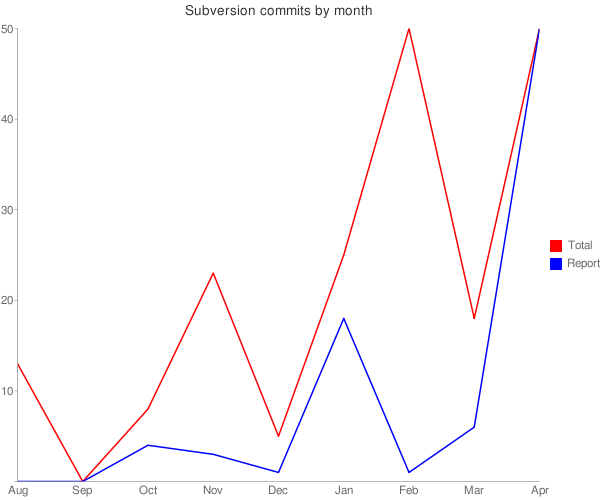
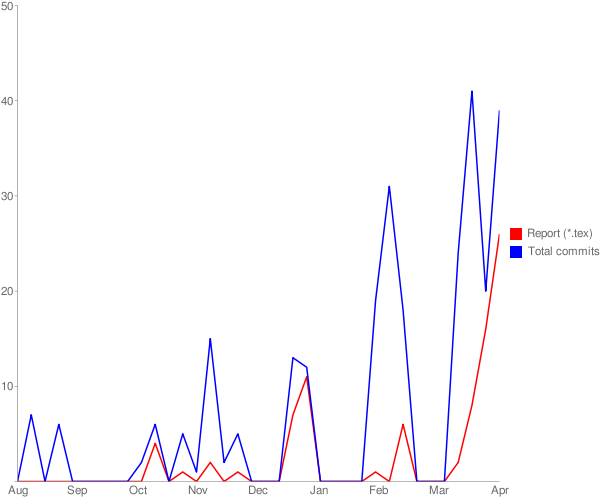
Gantt charts - ugh
git-svn-id: https://ssl.davidsansome.com/svn/3yp@270 f8f7d5d3-7237-0410-84b3-ada5caf6daf8

diff --git a/docs/report/appendix-time.tex b/docs/report/appendix-time.tex
@@ -1,0 +1,71 @@
+For any project to be successful it has to be well managed.
+Deadlines must be set (and met), and the available time has to be rationed out to allow all parts of the project to be completed.
+
+More research-based projects such as this one are slightly different, in that there is no formal set of requirements created before-hand.
+Development on the code-base is very much an arbitrary process, with new ideas evolving and new avenues being explored at all times.
+It is difficult to tell at the outset which ideas will be successful, and if any new directions will emerge during the course of development.
+
+Nevertheless, some deadlines were introduced in order to guide the project towards its end goal.
+These deadlines were as follows:
+
+\begin{enumerate}
+	\item \textbf{Project brief submission} (Friday 19$^\text{th}$ October)
+	\begin{itemize}
+		\item Familiarization with basic computer vision algorithms
+		\item Completion of test bed for shader implementations
+	\end{itemize}
+	
+	\item \textbf{Interim report submission} (Friday 11$^\text{th}$ January)
+	\begin{itemize}
+		\item Completion of basic modelfitting framework (with one limb)
+		\item Preliminary results generated
+	\end{itemize}
+	
+	\item \textbf{Easter holiday} (Friday 14$^\text{th}$ March)
+	\begin{itemize}
+		\item Adaption of modelfitting framework for multiple limbs
+		\item Graph plotting capabilities
+	\end{itemize}
+	
+	\item \textbf{Final submission} (Thursday 8$^\text{th}$ May)
+	\begin{itemize}
+		\item Classification framework using DFTs
+		\item Final results gathering
+	\end{itemize}
+\end{enumerate}
+
+Overall I feel that these deadlines were kept to quite well.
+Work on improving the algorithms continued until the very end of June - the final result of 90\% only being acheived a couple of weeks before the final deadline.
+It would have been more useful to have obtained this result earlier, as then more time could have been invested in the report.
+
+A gantt chart showing the actual work done on the project is given in Figure \ref{GanttChart}.
+The data for this gantt chart was gathered from Subversion commit logs.
+Graphs of Subversion commits per week and per hour are shown in Figure \ref{SVNGraphs}.
+
+\begin{landscape}
+	\begin{figure}[p]
+		\centering
+		\includegraphics[width=21cm]{gantt.png}
+	\end{figure}
+	\begin{figure}[p]
+		\centering
+		\includegraphics[width=21cm]{gantt2.png}
+	\end{figure}
+	\begin{figure}[p]
+		\centering
+		\includegraphics[width=21cm]{gantt3.png}
+		\label{GanttChart}
+		\caption{Gantt chart.}
+	\end{figure}
+\end{landscape}
+
+
+\begin{figure}[p]
+	\centering
+	\subfloat[Per week]{\label{SVNPerWeek}\includegraphics[width=10cm]{commits.png}}
+	\qquad
+	\subfloat[Per hour]{\label{SVNPerHour}\includegraphics[width=10cm]{commitshour.png}}
+	\caption{Subversion commits over time.
+		This is representative of work done on the project.}
+	\label{SVNGraphs}
+\end{figure}
